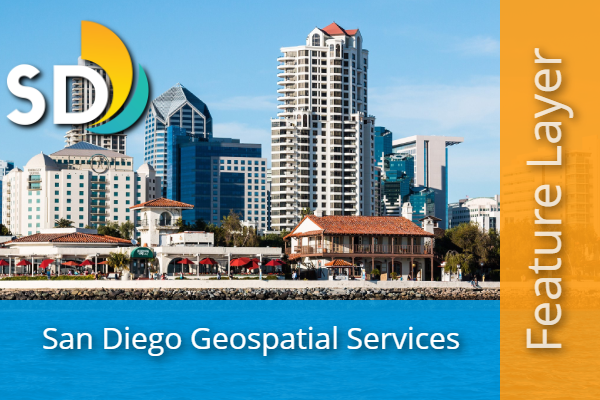
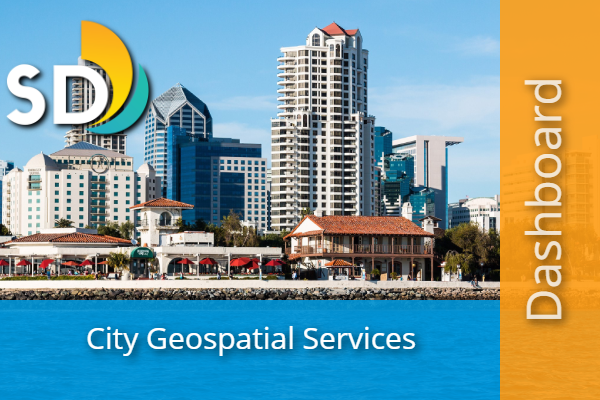
Gallery images
Updated gallery image files.

Changed region(s): [[0.87, 0.12, 0.99, 0.9], [0.06, 0.81, 0.78, 0.9]]

diff --git a/index.html b/index.html
@@ -52,7 +52,7 @@
             <p>Stormwater Department theme.</p>
           </div>
           <div class="card-action">
-            <a href="./viewer.html?background=https://jalogsdon.github.io/cosd-arcgis-thumbnail-builder/img/background/swd_background.png&logo=https://jalogsdon.github.io/cosd-arcgis-thumbnail-builder/img/logo/swd_logo.png&titleColor=0,152,219,0.9&title=Stormwater%20Geospatial%20Services&&sidebarColor=255,158,23,0.9">Use this theme</a>
+            <a href="./viewer.html?background=https://jalogsdon.github.io/cosd-arcgis-thumbnail-builder/img/background/swd_background.png&logo=https://jalogsdon.github.io/cosd-arcgis-thumbnail-builder/img/logo/swd_logo.png&titleColor=0,152,219,0.9&title=Stormwater%20Geospatial%20Services&&sidebarColor=0,84,159,0.9">Use this theme</a>
           </div>
         </div>
       </div>
